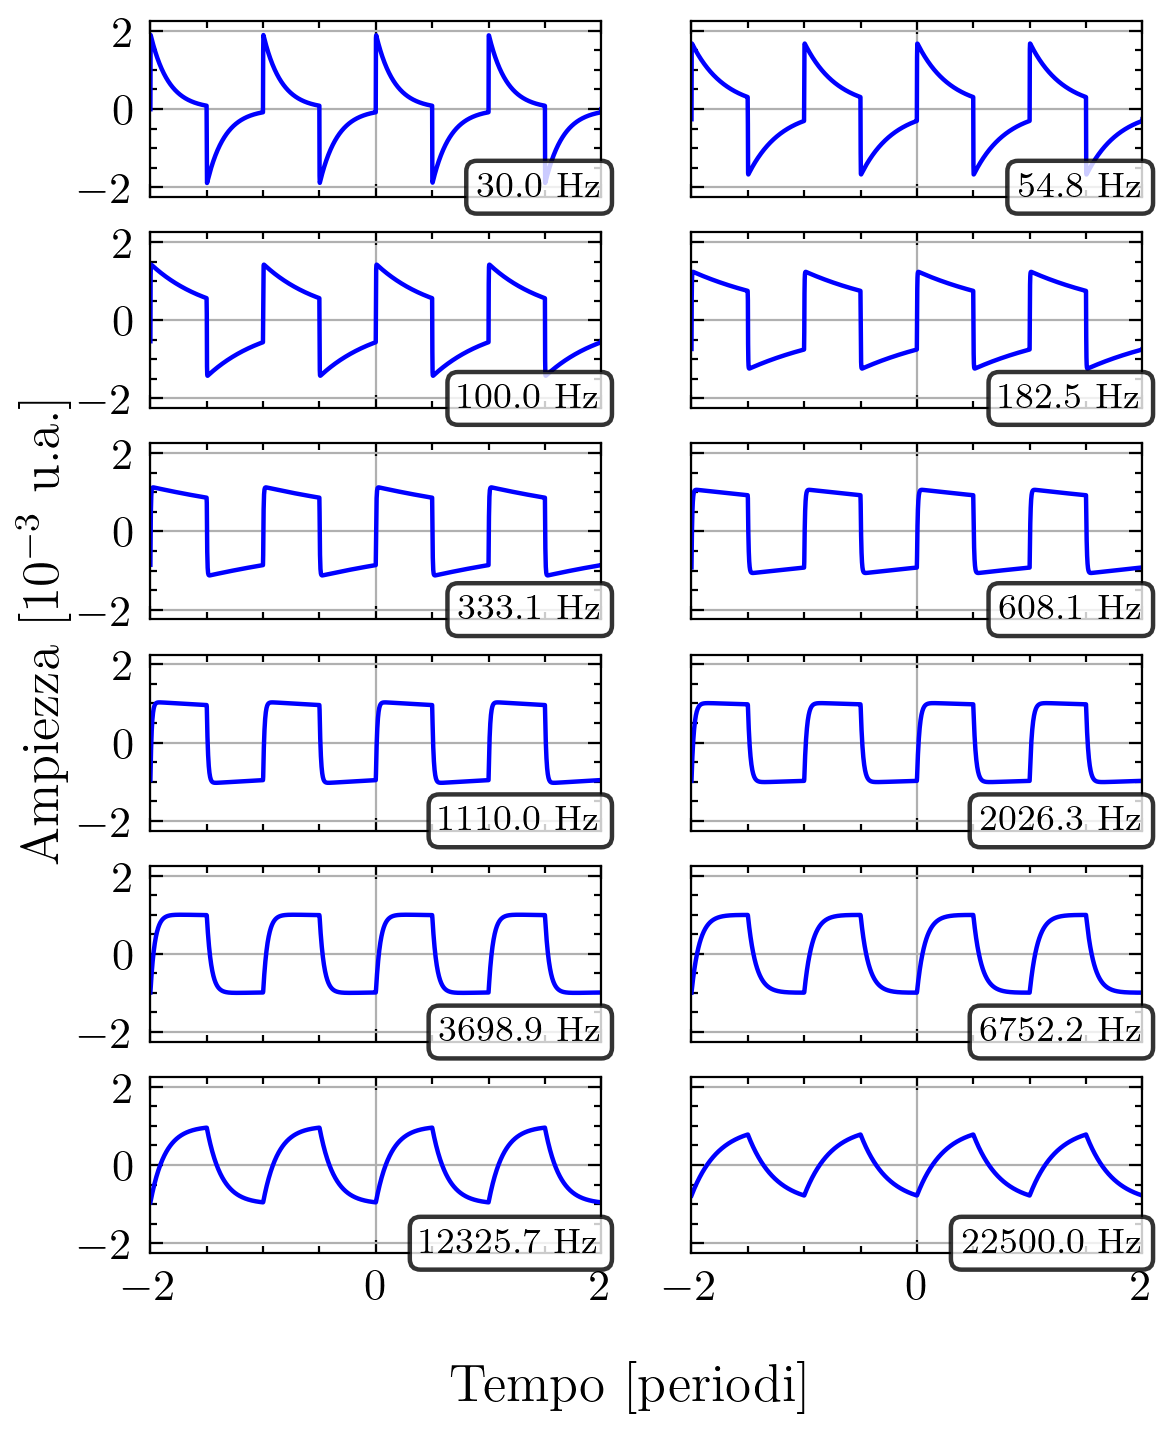
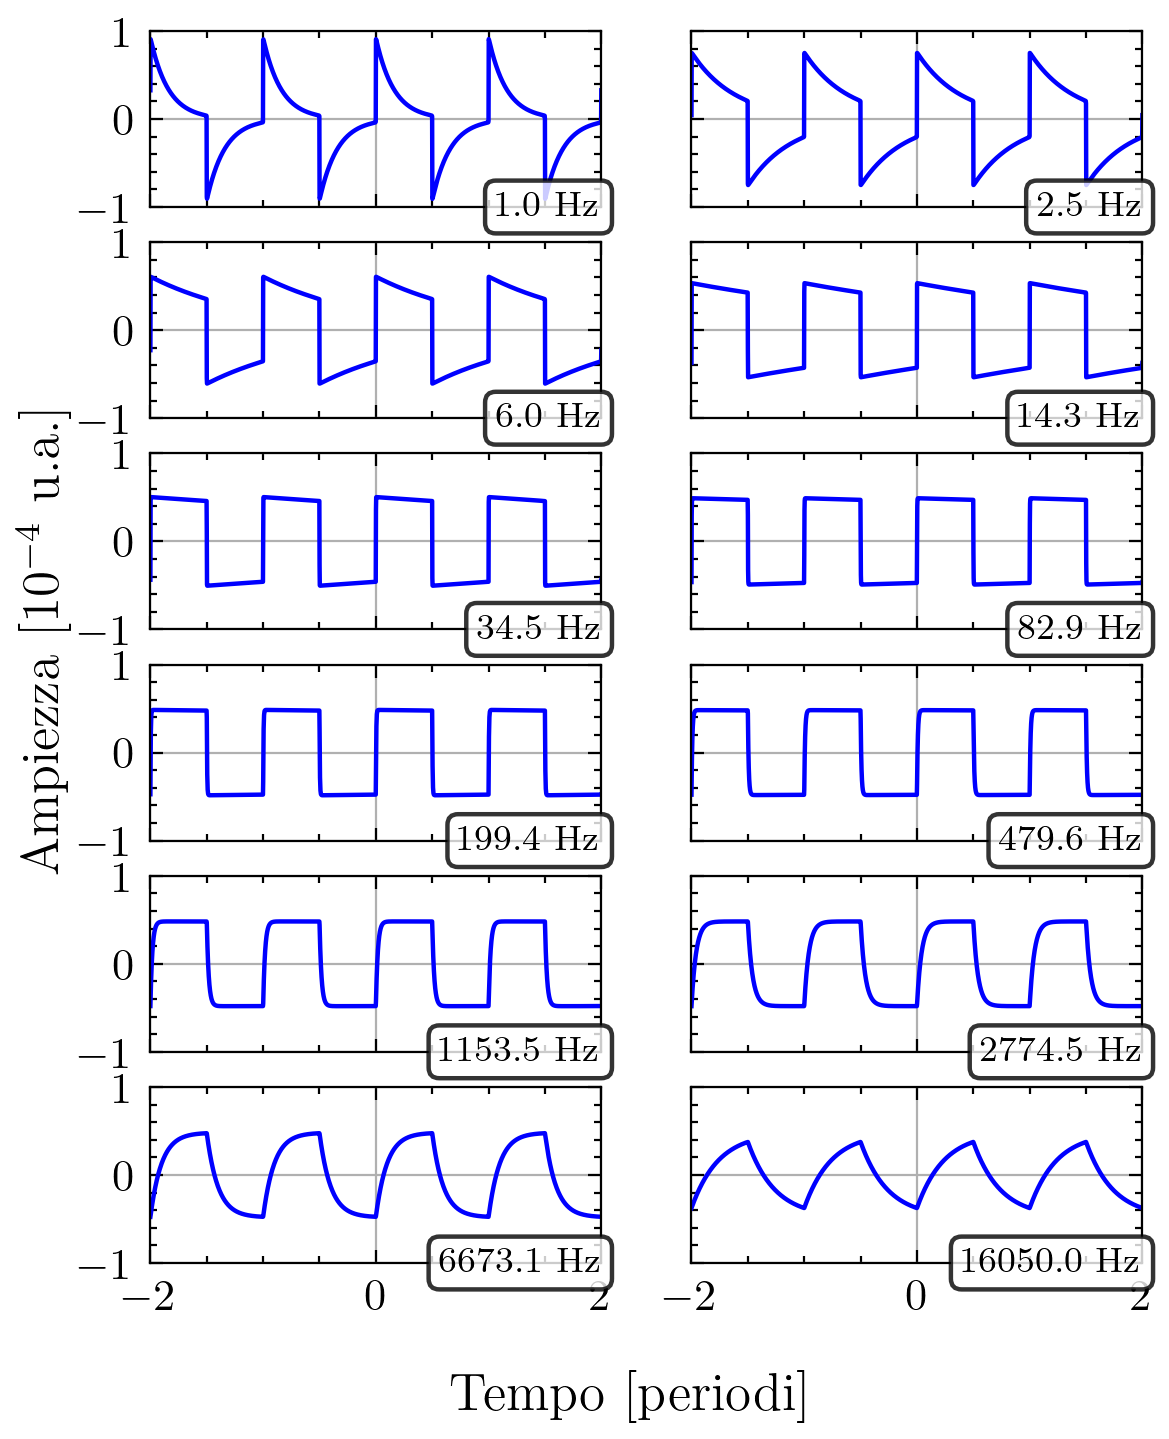
use experimental data instead of placeholder frequencies

diff --git a/lab2/fourier_numerical_reconstruction/int_diff_cascade.py b/lab2/fourier_numerical_reconstruction/int_diff_cascade.py
@@ -5,8 +5,12 @@ SAMPLES = 2048 # number of samples
 N = SAMPLES * 2 # number of iterations
 
 # cutoff frequencies for integrator and differentiator
-cutoff_int = 30 # Hz
-cutoff_diff = 15e3 # Hz
+cutoff_int = 1.03 # Hz
+cutoff_diff = 10.7e3 # Hz
+
+# estimated gain for frequencies that are much greater than
+# cutoff_int and much smaller than cutoff_diff.
+print(f"expected G = {cutoff_int/cutoff_diff:.4g}")
 
 # create an array of different frequencies
 freqs_start = np.log10(cutoff_int)
@@ -38,14 +42,16 @@ for f, ax in zip(freqs, axes):
 
         wave += ck * gain_int * gain_diff * np.sin(2*np.pi*fk*t + phaseshift_int + phaseshift_diff)
 
-    ax.plot(t*f, 1e3*wave, "blue")
+    print(f"G = {wave.max() - wave.min():.4g}") # simple gain estimate
+
+    ax.plot(t*f, 1e4*wave, "blue")
     ax.grid()
-    ax.set_ylim(-2.25, 2.25)
+    ax.set_ylim(-1, 1)
     ax.set_xlim(-2, 2)
 
     props = dict(boxstyle='round', facecolor='white', alpha=0.8)
-    ax.text(2, -2, f"{f:.1f} Hz", fontsize=8, verticalalignment="center", horizontalalignment="right", bbox=props)
+    ax.text(1, 0, f"{f:.1f} Hz", fontsize=8, verticalalignment="center", horizontalalignment="right", bbox=props, transform=ax.transAxes)
 
-fig.supylabel("Ampiezza [$10^{-3}$ u.a.]")
+fig.supylabel("Ampiezza [$10^{-4}$ u.a.]")
 fig.supxlabel("Tempo [periodi]")
 plt.savefig("int_diff_cascade/int_diff_cascade.png")
